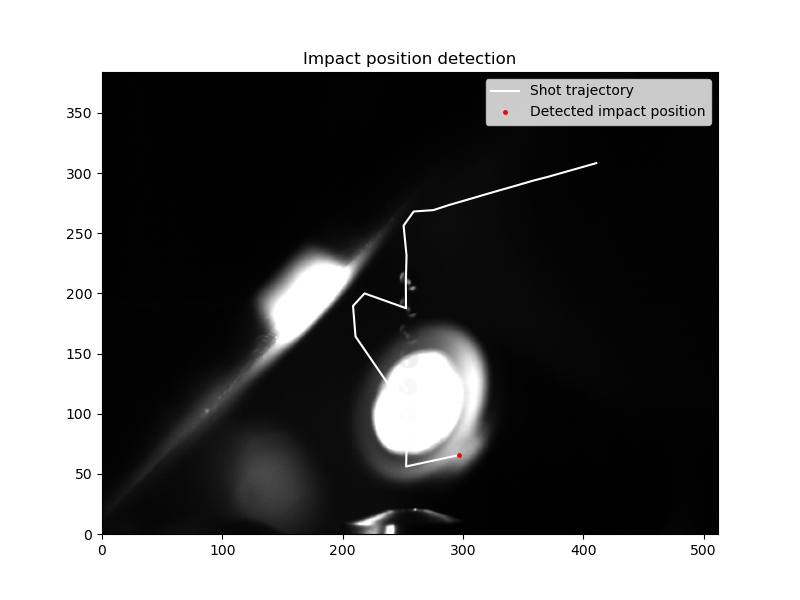
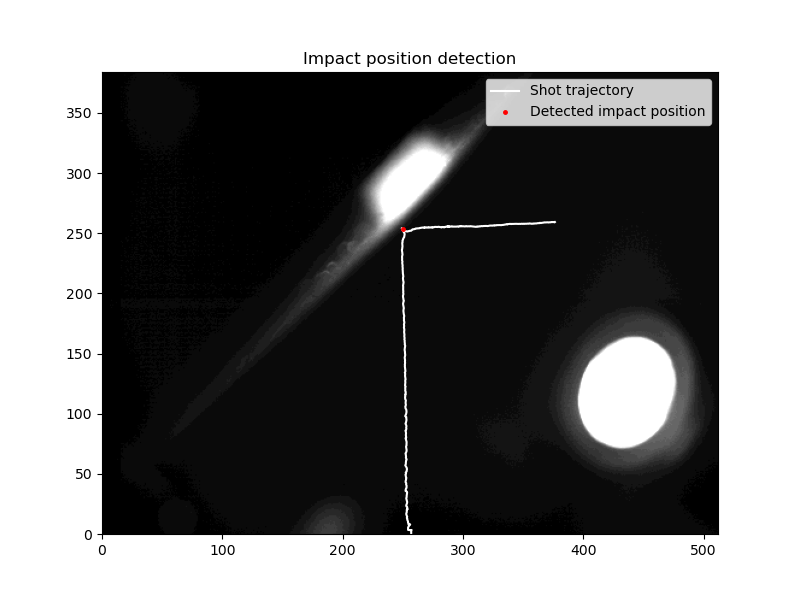
Fix angle layout

diff --git a/data_treat/data_pp.py b/data_treat/data_pp.py
@@ -75,16 +75,18 @@ def get_init_angle(Xi, Yi, Zi, ti, cam_top, cam_left, plot=True, saveDir='data_t
     plt.subplot(121)
     plt.title("Left camera")
     plot_supper(init, end, cam_left)
+    projNorm = np.sqrt(proj_V_l[0]**2 + proj_V_l[1]**2)
     plt.quiver(xl[init], yl[init],
-               proj_V_l[0]/(numPic+1), proj_V_l[1]/(numPic+1), color=(1., 0., 0.), scale=50)
+               10.*proj_V_l[0]/projNorm, 10.*proj_V_l[1]/projNorm, color=(1., 0., 0.), scale=50)
     plt.xlim((0, cam_left.res[0]))
     plt.ylim((0, cam_left.res[1]))
 
     plt.subplot(122)
     plt.title("Top camera")
+    projNorm = np.sqrt(proj_V_l[0] ** 2 + proj_V_l[1] ** 2)
     plot_supper(init, end, cam_top)
     plt.quiver([xt[init]], [yt[init]],
-              proj_V_t[0]/(numPic+1), proj_V_t[1]/(numPic+1), color=(1., 0., 0.), scale=50)
+              10.*proj_V_t[0]/projNorm, 10.*proj_V_t[1]/projNorm, color=(1., 0., 0.), scale=50)
 
     plt.xlim((0, cam_top.res[0]))
     plt.ylim((0, cam_top.res[1]))
@@ -142,7 +144,7 @@ def get_impact_position(X, Y, Z, cam_left, cam_top, plot=True, saveDir='data_tre
     return X[i], Y[i], Z[i]
 
 
-def plot_supper(init, end, cam):
+def plot_supper(init, end, cam, thres=40.):
     """Plot the superposition (addition) of a cam shot picture between picture init and end
 
     :param init,end: start and stop indices for the addition
@@ -150,11 +152,19 @@ def plot_supper(init, end, cam):
     """
     picList = glob.glob(cam.dir + "/*.tif")
     picList += glob.glob(cam.dir + "/*.jpg")
-    ver_pic = np.array(Image.open(picList[0]))
-    ver_pic = ver_pic[0:cam.res[0] - cam.cropSize[3], :]
+    pic_init = np.array(Image.open(picList[0]))
+    ver_pic = pic_init[0:cam.res[0] - cam.cropSize[3], :]
     for i in range(init, end):
         im_act = np.array(Image.open(picList[i]))
-        ver_pic = ver_pic/2 + im_act[0:cam.res[0] - cam.cropSize[3], :]/2
+
+        mask = np.abs(im_act - pic_init)
+        mask = mask[0:cam.res[0] - cam.cropSize[3], :]
+        mask[mask < thres] = 0
+        mask[mask >= thres] = 1
+
+        ver_pic = ver_pic * (1 - mask) + im_act[0:cam.res[0] - cam.cropSize[3], :] * mask
+    ver_pic = ver_pic / (end-init)
+    ver_pic = ver_pic.astype('uint8')
 
     plt.imshow(ver_pic, "gray")
 

diff --git a/gui/analysis.py b/gui/analysis.py
@@ -336,9 +336,6 @@ def launch_analysis(top_entry, left_entry, notebook, method, cam_top, cam_left, 
             cam_top.set_crop_size()
             cam_left.set_crop_size()
 
-            X, Y, Z, timespan = reconstruct_3d(cam_top, cam_left,
-                                               splitSymb="_", numsplit=-1, method=meth,
-                                               plotTraj=show_traj.get(), plot=not(isbatch.get()), isgui=True)
         except NameError:
             popupmsg("One of the camera folder name you entered was either incorrect or empty.")
         except:
@@ -346,11 +343,14 @@ def launch_analysis(top_entry, left_entry, notebook, method, cam_top, cam_left, 
 
         else:
             try:
-                traj_3d.set_trajectory(timespan, X, Y, Z)
+                X, Y, Z, timespan = reconstruct_3d(cam_top, cam_left,
+                                                   splitSymb="_", numsplit=-1, method=meth,
+                                                   plotTraj=show_traj.get(), plot=not (isbatch.get()), isgui=True)
             except:
                 notebook.tab(3, state='disable')
                 popupmsg("Something went wrong in the analysis. Check out the console messages for more detail.")
             else:
+                traj_3d.set_trajectory(timespan, X, Y, Z)
                 notebook.tab(3, state='normal')
                 if isbatch.get():
                     alpha = get_init_angle(X, Y, Z, timespan, cam_top, cam_left, plot=False,

diff --git a/gui/post_processing.py b/gui/post_processing.py
@@ -129,7 +129,7 @@ def launch_pp(vels, cam_top, cam_left, T, traj_3d, fileSave, ang, pos):
     :param ang: angle parameter form
     :param pos: impact position parameter form
     """
-    plt.close()
+    #plt.close()
     log = ''
     fileSave[0][1].delete(0, tk.END)
     fileSave[0][1].insert(tk.END, traj_3d.save_dir)
